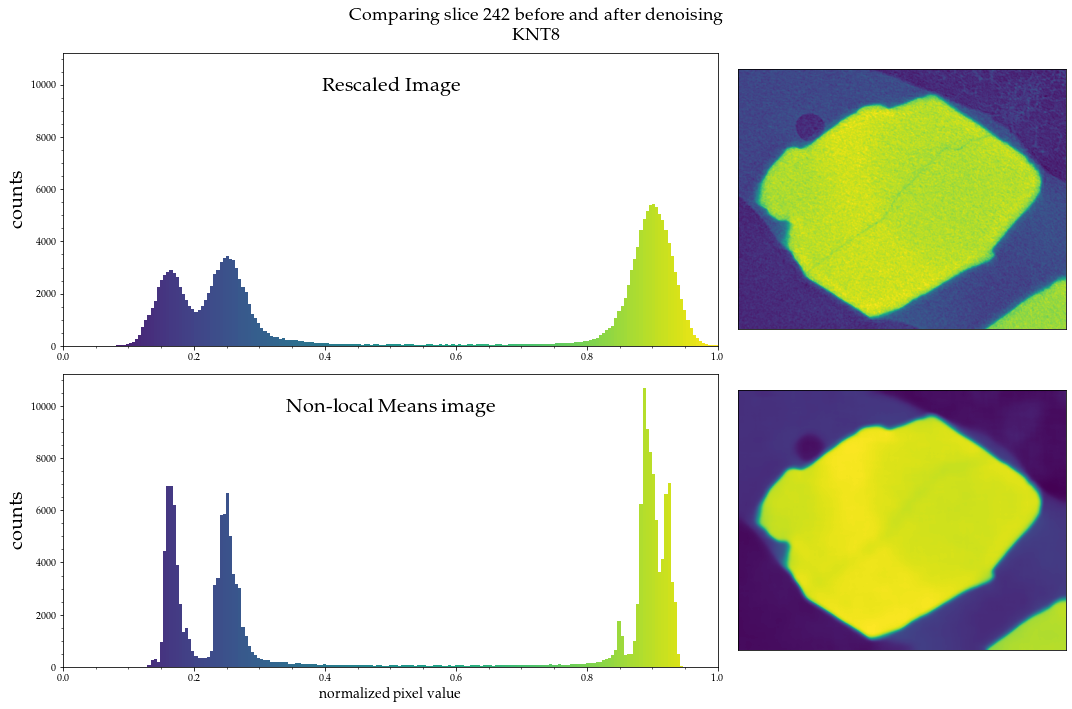
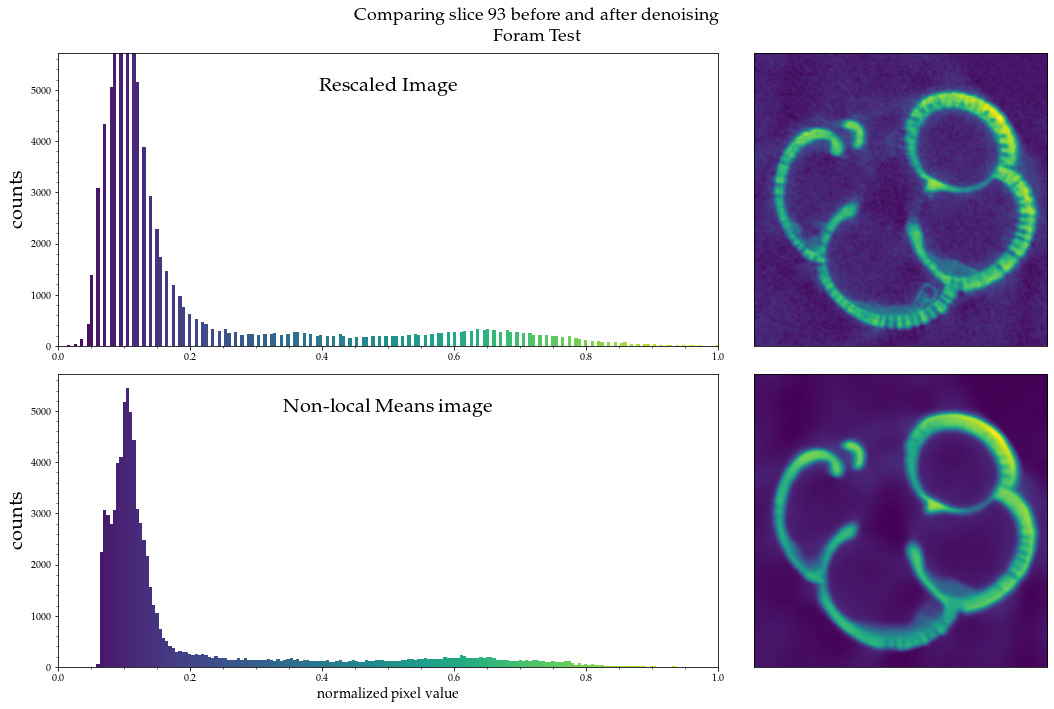
update markdown example

diff --git a/example/watershed_segmentation.md b/example/watershed_segmentation.md
@@ -1,0 +1,398 @@
+# Watershed based image segmentation of CT data
+*Jordan Lubbers*  
+
+
+*Oregon State University College of Earth, Ocean, and Atmospheric Sciences* 
+
+
+**Last Updated:** 1/14/2021
+
+# Overview
+This notebook goes outlines how a small, yet powerful, python module, ```CTPy```, helps go from a stack of 2D tomographic images that represent a 3D volume to that same volume segmented into user defined regions based on their grayscale value. Built on top of [scikit-image](https://scikit-image.org/), the functions help the user achieve the following:
+
+
+1. **load in stack of image files that represent slices through the dataset:** This is your 'raw' data
+
+2. **Normalize the stack values between 0 and 1:** scikit image algorithms work better this way
+
+3. **Apply contrast stretching:** This removes small, high attenuating areas that don't reflect the mineral (e.g. small oxide inclusions). Allows for us to see subtleties in mineral zone attenuation better.
+    
+4. **Denoise the data using a non-local means filter:** Creates more distinct histogram peaks while preserving textural information
+
+5. **Choose the [markers](https://www.cmm.mines-paristech.fr/~beucher/wtshed.html) for the watershed segmentation algorithm:** These help prevent oversegmentation and more accurate image classification
+6. **Apply [watershed algorithm](https://scikit-image.org/docs/dev/auto_examples/segmentation/plot_watershed.html) to entire stack:** Applies same markers for every image
+
+7. **Save segmented stack to folder:** This is done as a consecutive series of 2D images similar to imageJ
+
+For more information on each function just use the standard Python documentation for learning about a function:
+```python
+help(ct.import_stack)
+
+```
+```
+
+    import_stack imports a stack of images and converts them into a 3D numpy 
+    array so that it can be further processed using either numpy functions or
+    scikit-image based functions in the CTPy functions in the module.
+    
+    import_stack(filepath,filetype,name):
+
+    Parameters
+    ----------
+    filepath : string
+        file directory for where the series of images is located. It is recommended
+        that the files be in their own folder, as the function will import all 
+        files from the directory as specified in the 'filetype' argument. 
+    filetype : string
+        type of file the images are. Choices are 'tif', 'png', or 'jpg'.
+    name : string
+        name of the dataset you are working with. This will be utilized for 
+        figure labeling and filesaving functions later on.
+
+    Returns
+    -------
+    stack : ndarray
+        3D numpy ndarray where the first two dimensions pertain to an individual
+        image (e.g., slice) in the dataset and the last dimension pertains to 
+        the slice number in the stack. Since numpy arrays are in [rows,columns,depth]
+        format, this is analagous to [y,x,z]
+
+```
+
+
+# Import dependencies
+Below is a list of packages that ```CTPy``` is built on. Make sure you have them installed and operational on your computer:
+
+- [scikit-image](https://scikit-image.org/)
+- [numpy](https://numpy.org/install/)
+- [glob](https://docs.python.org/3/library/glob.html)
+- [PIL](https://pillow.readthedocs.io/en/stable/)
+- [tqdm](https://github.com/tqdm/tqdm)
+
+
+
+
+
+```python
+# module of functions for CT data processing
+import ctpy as ct
+
+
+# array operations outside of CTPy
+import numpy as np
+
+# timing things
+import time
+
+#progress bar
+from tqdm.notebook import tqdm
+
+
+from skimage.transform import rescale, resize, downscale_local_mean
+
+import matplotlib.pyplot as plt
+plt.rcParams.update({
+    "text.usetex": True,
+    "font.family": "serif",
+    "font.serif": ["Palatino"],
+})
+tstart = time.time()
+```
+
+# Import your CT data
+The first step in image processing is to actually bring in the stack of 2D images we will be working with. We do this utilizing the ```import_stack``` function from CTPy. The arguments for this function are the filepath to where the images are stored on your computer, the file type (e.g., tif, png, jpg), and the name you want to give the stack you are working with. This will get used for labeling throughout and also when saving your segmented stack. We establish the filepath to the images, the name of our dataset, and call the ```import_stack``` function. This will go through the chosen folder and import **all** files with the specified filetype, so it is recommended each dataset lives in its own folder. 
+
+
+
+```python
+# path to the folder where your 2D images reside
+filepath = '/Users/jordanlubbers/Desktop/Test_figures/foram_stack'
+
+#For figure labeling and saving purposes
+name = 'Foram Test'
+
+stack = ct.import_stack(filepath,'tif',name)
+```
+
+
+      0%|          | 0/186 [00:00<?, ?it/s]
+
+
+    your stack is  186  images thick and is ready to denoise
+
+
+## Rescale the stack
+If your dataset is large, this is recommended that you downsample your data so that it can be processed further. Your data should be < (500 x 500 x 500) pixels 
+
+
+```python
+# stack = rescale(stack,.5,anti_aliasing = True)
+```
+
+# Normalize and rescale the data
+Looking at our histogram on a log scale, we can see that there are a very small amount of pixels with values at the far high end of the attenuation range. Because it is <.01% of our data we are going to remove them to better fill the normalized range. This is known as contrast stretching and should allow us to see subtleties in our data better. We normalize the data because Python's sckit-image processing functions tend to work better with values between 0 and 1. To achieve this we call the ```rescale_stack``` function that takes arguments for the lower and upper bounds we want to trim off our data, the data we are working with, and the slice number we want to visualize:
+
+
+
+```python
+# number of images in a your stack
+stack_length = len(stack)
+
+# Choose an image in the middle of the stack to inspect
+slice_number = int(stack_length/2)
+
+# colormap for plotting throughout
+cmap = 'viridis'
+
+# call the rescale function
+stack_rescale, stack_rescale_array1D, fig,ax = ct.rescale_stack(.000,99.99,
+                                                        stack,
+                                                        slice_number,
+                                                        cmap
+                                                       )
+
+```
+
+
+    
+![png](output_8_0.png)
+    
+
+
+# Denoise the stack
+In the figure above we can see that histogram peaks tend to have noise associated with them. While this noise can take a few different shapes (e.g., Gaussian), it is imperative we remove it so that we can more accurately segment the dataset. CTPy uses a [non local means](https://scikit-image.org/docs/dev/api/skimage.restoration.html?highlight=non%20local%20means#skimage.restoration.denoise_nl_means) denoising algorithm to remove noise from the data while still preserving crucial textural information. Here we call the ```denoise_stack``` function that takes arguments for the stack we want to smooth, the patch size, and patch distance of the non-local means filter. The larger these values are, the more blurred out the image will be, as it is using the values from more adjacent pixels to compute the value of a single pixel as it rasters across the image. 
+
+
+
+```python
+# call the non local means denoising helper function 
+# and specify the patch size and distance
+nlm_smooth, nlm_smooth1D = ct.denoise_stack(stack_rescale,10,10)
+```
+
+
+      0%|          | 0/186 [00:00<?, ?it/s]
+
+
+    Your stack has been smoothed using the Skimage non-local means algorithm
+
+
+## Compare denoised data with original (Slice)
+Below we utilize the ```denoise_slice_plot``` function to visualize what the non-local-means filter is doing on a slice-by-slice basis. It takes arguments for the matplotlib [colormap](https://matplotlib.org/3.1.0/gallery/color/colorbar_basics.html) you would like to use for visualizing the data, the bins to include in the histogram, the slice number you want to visualize in the stack, the original and smoothed stacks you want to compare, and the name of the dataset you are working with. It can be seen that after non-local means denoising, histogram for the image has much more pronounced peaks and may even parse noisy peaks into multiple. We are now in a better position to segment the image.
+
+
+```python
+# bins for the histogram
+bins = 200
+
+fig, ax = ct.denoise_slice_plot(cmap,
+                                bins,
+                                slice_number,
+                                stack_rescale,
+                                nlm_smooth,
+                                name
+                               )
+# fig.set_figheight(8)
+# fig.set_figwidth(10)
+# plt.savefig('/Users/jordanlubbers/Desktop/PhD/Research/Writing/3D_manuscript/{}_original_vs_denoise.pdf'.format(name),bbox_inches = 'tight')
+```
+
+
+    
+![png](output_12_0.png)
+    
+
+
+## Compare original and denoised data (Stack)
+Similar to the ```denoise_slice_plot``` function, the ```denoise_stack_plot``` function will compare the raw data and denoised data, but this time it will incorporate the entire stack into the histogram. It takes arguments for the colormap, number of bins in the histogram, and the stacks you want to compare. We see that this also makes histograms much more pronounced and now allows us to train our watershed segmentation algorithm based on where the troughs in histogram data reside. 
+
+
+```python
+fig, ax = ct.denoise_stack_plot('viridis',
+                                bins,
+                                stack_rescale_array1D,
+                                nlm_smooth1D
+                               )
+# plt.savefig('/Users/jordanlubbers/Desktop/PhD/Research/DATA/microCT/stack_histograms/{}_original_vs_denoise_stack.pdf'.format(name),bbox_inches = 'tight')
+```
+
+
+    
+![png](output_14_0.png)
+    
+
+
+# Watershed segmentation
+
+
+
+A brief blurb on the watershed algorithem from [Roerdink and Meijster, 2000](http://citeseerx.ist.psu.edu/viewdoc/download?doi=10.1.1.10.3852&rep=rep1&type=pdf):
+
+"The watershed transform can be classified as a region-based segmentation approach. The intuitive idea underlying this method comes from geography: it is that of a landscape or topographic relief which is flooded by water, watersheds being the divide lines of the domains of attraction of rain falling over the region [46]. An alternative approach is to imagine the landscape being immersed in a lake, with holes pierced in local minima. Basins (also called ‘catchment basins’) will fill up with water starting at these local minima, and, at points where water coming from different basins would meet, dams are built. When the water level has reached the highest peak in the landscape, the process is stopped. As a result, the landscape is partitioned into regions or basins separated by dams, called watershed lines or simply watersheds."
+
+
+In ```CTPy``` we use the [sobel](https://scikit-image.org/docs/dev/auto_examples/edges/plot_edge_filter.html#sphx-glr-auto-examples-edges-plot-edge-filter-py) edge filter to make an "elevation map" as in this [example](https://scikit-image.org/docs/0.12.x/auto_examples/xx_applications/plot_coins_segmentation.html#region-based-segmentation) and represents the image gradient at each pixel. This ultimately is what we apply the watershed algorithm to, however first we need to define our markers! Think of the algorithm starting at these markers and moving out (up) from there, classifying the image not just by pixel value, but it's topographical location relative to the pixels around it. Because this adds in a spatial component to the image segmentation, it often times produces more accurate results than simple thresholding. Based on the histogram above you will determine the number of segments for your image (i.e. background, sample holder, phase 1, phase 2, etc.). To set watershed markers, in brief, we create a new array that is the same shape as our stack, but fill it with 0s. We are then going to replace those 0s with 'marker' values for a certain pixel range. For example:
+
+```python
+#phase 1 
+markers[i,:,:][nlm_smooth[i] < .1] = 1
+    
+#phase 2
+markers[i,:,:][np.logical_and(nlm_smooth[i] > .25, nlm_smooth[i] < .4)] = 2
+```
+
+We then repeat this for as many distinct phases as we have evidence to believe exist in our data. Do not worry about being exact, as this is where the watershed algorithm can help! It will 'fill in' the unclassified values using pixel values as topography starting from the markers and moving outwards (upwards) from there. 
+
+## Set markers
+
+
+```python
+#create the elevation map for the whole stack
+elevation_map = ct.create_elevation_map(nlm_smooth)
+
+#plot the elevation map for a given slice
+fig,ax = ct.plot_elevation_map(elevation_map,
+                               slice_number,
+                               'viridis'
+                              )
+```
+
+
+      0%|          | 0/186 [00:00<?, ?it/s]
+
+
+
+    
+![png](output_16_1.png)
+    
+
+
+
+```python
+#empty marker array
+markers = np.zeros(nlm_smooth.shape)
+
+# iterate through each 2D slice in the stack and 
+# fill it with the marker values based on our smoothed data
+# pixel values. Remember they are normalized between 0 and 1!
+for i in tqdm(range(len(markers))):
+    
+    #choose as many phases as you see fit
+    
+    #phase 1
+    markers[i,:,:][nlm_smooth[i] < .1] = 1
+    
+    #phase 2
+    markers[i,:,:][np.logical_and(nlm_smooth[i] > .25, nlm_smooth[i] < .35)] = 2
+    
+    #phase 3
+    markers[i,:,:][nlm_smooth[i] > .6] = 3
+    
+
+#plot up the markers for a given slice    
+fig, ax = ct.plot_markers(markers,
+                          nlm_smooth,
+                          slice_number,
+                          'viridis')    
+```
+
+
+      0%|          | 0/186 [00:00<?, ?it/s]
+
+
+
+    
+![png](output_17_1.png)
+    
+
+
+## Run watershed algorithm
+Here we use the ```run_watershed_segmentation``` function to segment a given stack (e.g., our elevation map stack) with a set of markers defined above. 
+
+
+```python
+ws_results = ct.run_watershed_segmentation(elevation_map,markers)
+```
+
+
+      0%|          | 0/186 [00:00<?, ?it/s]
+
+
+
+```python
+
+```
+
+## Display the watershed results
+We can visualize the results of our segmentation for a single slice utilizing the ```plot_ws_results``` function. This will compare the denoised data, the markers, and the watershed segmentation results in a 1x3 panel. This function has arguments for the three stacks you are comparing, and the colormap you want to use to visualize them with. 
+
+
+```python
+fig, ax = ct.plot_ws_results(nlm_smooth,
+                             markers,
+                             ws_results,
+                             slice_number,
+                             cmap
+                            )
+```
+
+
+    
+![png](output_22_0.png)
+    
+
+
+# Export results
+Similar to the ```import_stack``` function, the ```save_seg_results``` function will take each segmented 2D slice in your dataset and save it to a folder specified with the ```outpath``` variable. It takes arguments for the folder file path you want to save it to, the name of the dataset, and the stack of segmented data. 
+
+
+```python
+outpath = '/Users/jordanlubbers/Desktop/Test_figures/foram_stack'
+ct.save_seg_results(outpath,name,ws_results,cmap)
+```
+
+
+      0%|          | 0/186 [00:00<?, ?it/s]
+
+
+
+```python
+#time since you ran the first code block at the top
+ttotal = time.time() - tstart
+print(time.strftime("Total Runtime: %M minutes %S seconds",
+                    time.gmtime(ttotal)
+                   )
+     )
+```
+
+    Total Runtime: 01 minutes 46 seconds
+
+
+
+```python
+# save your work as a numpy array so it is easier to 
+# load up and work with in the future
+np.save('{}/{}_seg_results.npy'.format(outpath,name),
+        ws_results
+       )
+```
+
+
+```python
+# ws_results = np.load('/Volumes/JEL/microCT_scans/summer_2019/KNT_sanidine/segmented_crystals/KNT_summer2019_xtl9/seg_results/KNT\_9_seg_results.npy')
+```
+
+
+```python
+
+```
+
+
+```python
+
+```
+
+
+```python
+
+```
